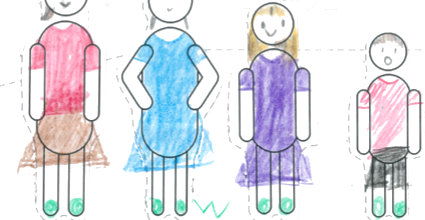
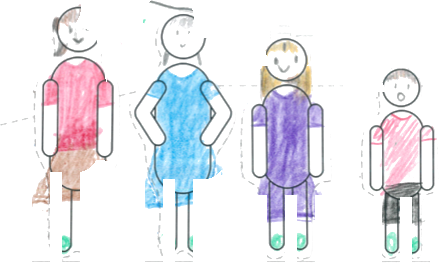
Complete family cutout and normalize fragment scale

diff --git a/index.html b/index.html
@@ -5,8 +5,8 @@
     <meta name="viewport" content="width=device-width, initial-scale=1" />
     <meta name="description" content="作品の中の小さな要素から、それぞれの平和をひらく。" />
     <title>平和とは — 無限の画布</title>
-    <link rel="stylesheet" href="styles.css?v=20261128-23" />
-    <script src="script.js?v=20261128-23" defer></script>
+    <link rel="stylesheet" href="styles.css?v=20261129-01" />
+    <script src="script.js?v=20261129-01" defer></script>
   </head>
   <body>
     <main
@@ -68,7 +68,7 @@
         <button class="fragment fragment--twentyone" type="button" data-index="20" aria-label="はたらきに行く大人を開く"><img src="assets/day2-elements/14-40-55.0.png?v=15" alt="働きに行く大人の切り抜き" draggable="false" /><span class="fragment__prompt" aria-hidden="true">平和とは？</span></button>
         <button class="fragment fragment--twentytwo" type="button" data-index="21" aria-label="すてきな学校にするを開く"><img src="assets/day2-elements/14-43-10.0.png?v=15" alt="青いランドセルの子どもの切り抜き" draggable="false" /><span class="fragment__prompt" aria-hidden="true">平和とは？</span></button>
         <button class="fragment fragment--twentythree" type="button" data-index="22" aria-label="りょこうを開く"><img src="assets/pm-elements/pm-01.png?v=1" alt="飛行機の切り抜き" draggable="false" /><span class="fragment__prompt" aria-hidden="true">平和とは？</span></button>
-        <button class="fragment fragment--twentyfour" type="button" data-index="23" aria-label="楽しい日を開く"><img src="assets/pm-elements/pm-03.png?v=1" alt="四人の家族の切り抜き" draggable="false" /><span class="fragment__prompt" aria-hidden="true">平和とは？</span></button>
+        <button class="fragment fragment--twentyfour" type="button" data-index="23" aria-label="楽しい日を開く"><img src="assets/pm-elements/pm-03.png?v=2" alt="四人の家族の切り抜き" draggable="false" /><span class="fragment__prompt" aria-hidden="true">平和とは？</span></button>
         <button class="fragment fragment--twentyfive" type="button" data-index="24" aria-label="明るい大きな学校を開く"><img src="assets/pm-elements/pm-04.png?v=5" alt="ランドセルを背負った四人の学生の切り抜き" draggable="false" /><span class="fragment__prompt" aria-hidden="true">平和とは？</span></button>
         <button class="fragment fragment--twentysix" type="button" data-index="25" aria-label="うさぎのひみつきちを開く"><img src="assets/pm-elements/pm-05.png?v=1" alt="うさぎの秘密基地の切り抜き" draggable="false" /><span class="fragment__prompt" aria-hidden="true">平和とは？</span></button>
         <button class="fragment fragment--twentyseven" type="button" data-index="26" aria-label="キャンプに行く子どもたちを開く"><img src="assets/pm-elements/pm-06.png?v=1" alt="黄色いテントの切り抜き" draggable="false" /><span class="fragment__prompt" aria-hidden="true">平和とは？</span></button>

diff --git a/styles.css b/styles.css
@@ -304,14 +304,14 @@ button {
 .fragment--twenty { top: 95px; left: 2815px; width: 200px; height: 105px; --rotation: -0.7deg; --float-duration: 9.6s; --float-delay: -5.5s; }
 .fragment--twentyone { top: 395px; left: 2860px; width: 110px; height: 180px; --rotation: 1.2deg; --float-duration: 10.6s; --float-delay: -3.2s; }
 .fragment--twentytwo { top: 60px; left: 3200px; width: 80px; height: 180px; --rotation: -1.5deg; --float-duration: 9.1s; --float-delay: -6.5s; }
-.fragment--twentythree { top: 70px; left: 3470px; width: 200px; height: 105px; --rotation: -1deg; --float-duration: 9.7s; --float-delay: -2.2s; }
-.fragment--twentyfour { top: 395px; left: 3530px; width: 90px; height: 150px; --rotation: 1.4deg; --float-duration: 10.3s; --float-delay: -5.1s; }
-.fragment--twentyfive { top: 55px; left: 3770px; width: 190px; height: 180px; --rotation: -1.5deg; --float-duration: 9.2s; --float-delay: -3.4s; }
-.fragment--twentysix { top: 405px; left: 3830px; width: 90px; height: 170px; --rotation: 1deg; --float-duration: 10.8s; --float-delay: -6.1s; }
-.fragment--twentyseven { top: 45px; left: 4100px; width: 180px; height: 180px; --rotation: -0.8deg; --float-duration: 9.5s; --float-delay: -4.2s; }
-.fragment--twentyeight { top: 410px; left: 4085px; width: 200px; height: 135px; --rotation: 1.2deg; --float-duration: 10.6s; --float-delay: -1.7s; }
-.fragment--twentynine { top: 55px; left: 4435px; width: 100px; height: 180px; --rotation: -1.4deg; --float-duration: 8.9s; --float-delay: -5.6s; }
-.fragment--thirty { top: 390px; left: 4400px; width: 170px; height: 180px; --rotation: 0.8deg; --float-duration: 10.1s; --float-delay: -2.8s; }
+.fragment--twentythree { top: 70px; left: 3470px; width: 210px; height: 125px; --rotation: -1deg; --float-duration: 9.7s; --float-delay: -2.2s; }
+.fragment--twentyfour { top: 380px; left: 3460px; width: 220px; height: 165px; --rotation: 1.4deg; --float-duration: 10.3s; --float-delay: -5.1s; }
+.fragment--twentyfive { top: 55px; left: 3760px; width: 220px; height: 170px; --rotation: -1.5deg; --float-duration: 9.2s; --float-delay: -3.4s; }
+.fragment--twentysix { top: 385px; left: 3775px; width: 200px; height: 170px; --rotation: 1deg; --float-duration: 10.8s; --float-delay: -6.1s; }
+.fragment--twentyseven { top: 55px; left: 4070px; width: 220px; height: 160px; --rotation: -0.8deg; --float-duration: 9.5s; --float-delay: -4.2s; }
+.fragment--twentyeight { top: 380px; left: 4110px; width: 135px; height: 185px; --rotation: 1.2deg; --float-duration: 10.6s; --float-delay: -1.7s; }
+.fragment--twentynine { top: 55px; left: 4385px; width: 210px; height: 180px; --rotation: -1.4deg; --float-duration: 8.9s; --float-delay: -5.6s; }
+.fragment--thirty { top: 405px; left: 4380px; width: 220px; height: 130px; --rotation: 0.8deg; --float-duration: 10.1s; --float-delay: -2.8s; }
 .fragment--thirtyone { top: 55px; left: 4700px; width: 180px; height: 180px; --rotation: -1deg; --float-duration: 9.8s; --float-delay: -6.4s; }
 .fragment--thirtytwo { top: 425px; left: 4685px; width: 200px; height: 110px; --rotation: 1.3deg; --float-duration: 10.5s; --float-delay: -3.7s; }
 
